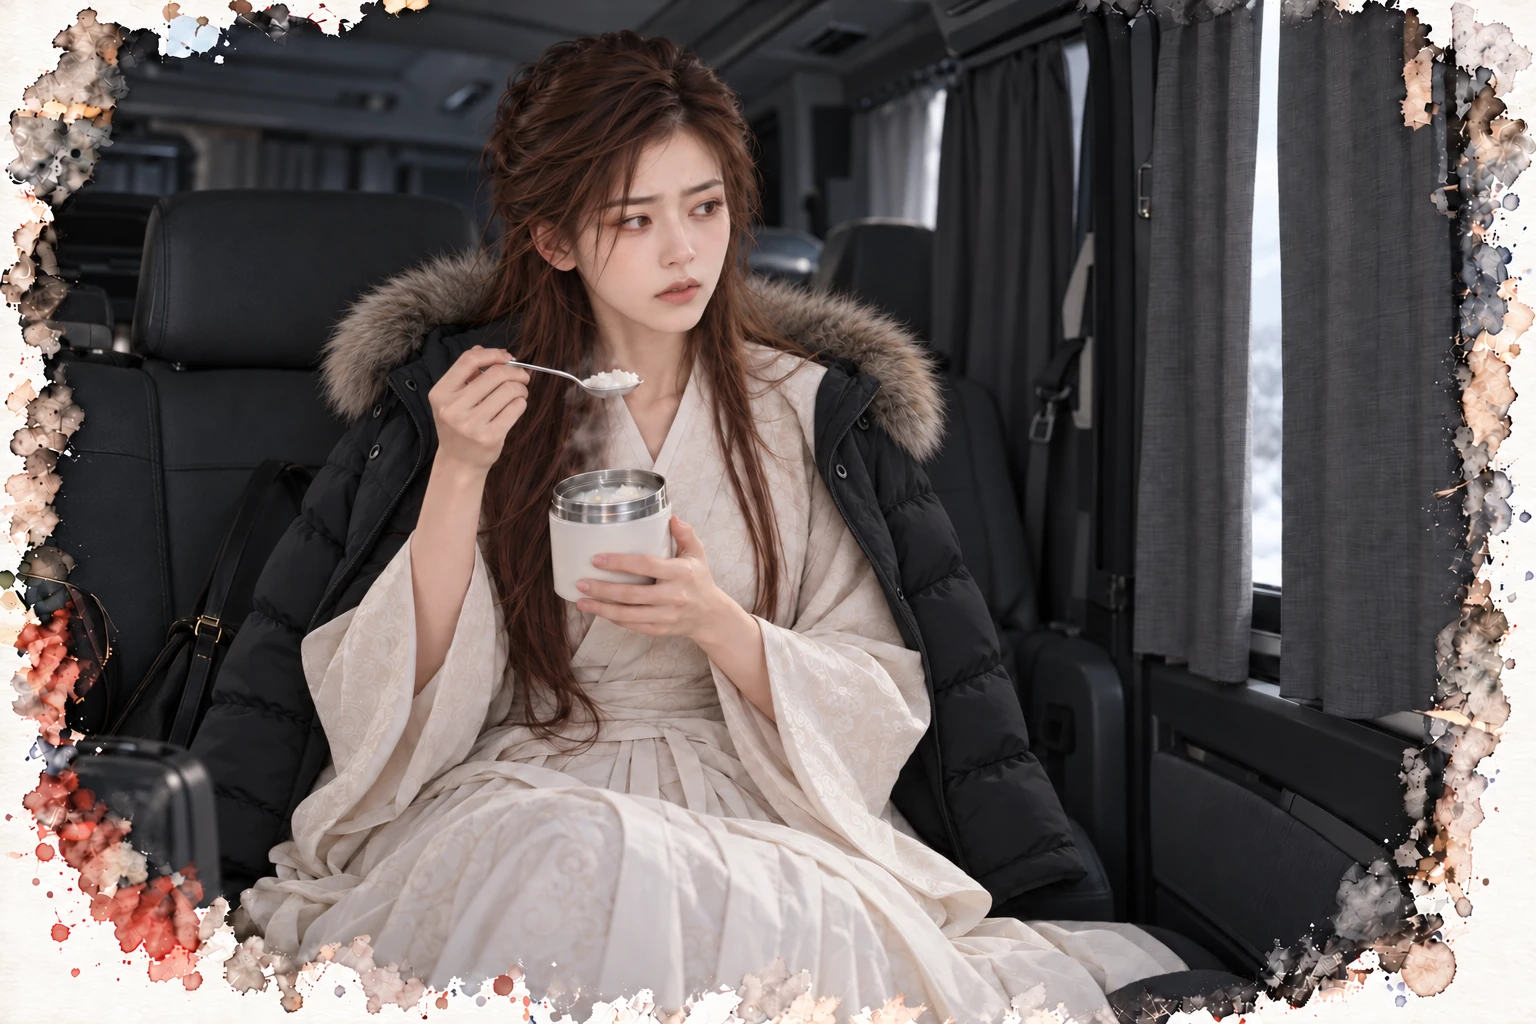
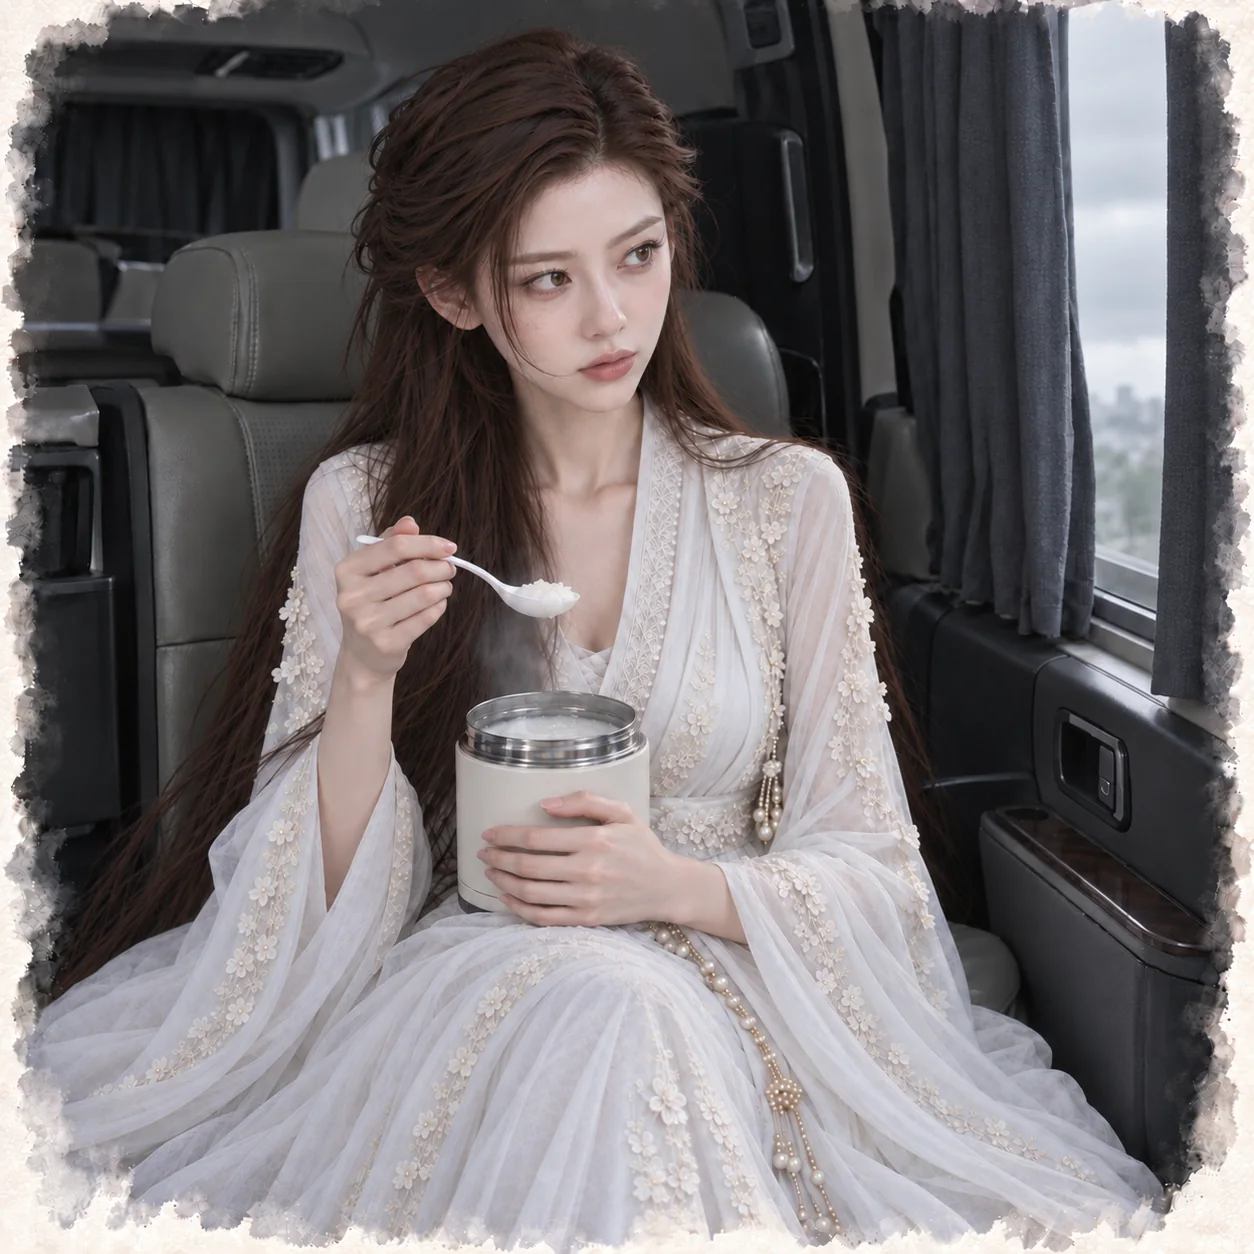
沒有招牌的酒吧 第二部第一章：替換林棠插圖
Claude-Session: https://claude.ai/code/session_01HUwf2ENyDuzceKaKYawxmj

diff --git a/novels/no-signboard-bar/part-02-chapter-01.html b/novels/no-signboard-bar/part-02-chapter-01.html
@@ -98,7 +98,7 @@
 <p>江澈站在吧檯後面，一直沒有去收那只杯子。</p>
 <p>他在忍。</p>
 </section>
-<section class="pov pov-lin" data-name="林棠"><div class="pov-opening"><h2 class="pov-title" id="pov-3"><span>敘事視角</span>林棠</h2><a class="pov-art" href="../../assets/novels/no-signboard-bar/part-02-chapter-01-lin-tang.webp" target="_blank" rel="noopener" aria-label="開啟林棠插圖大圖"><img src="../../assets/novels/no-signboard-bar/part-02-chapter-01-lin-tang.webp" alt="林棠披著黑色毛邊羽絨外套，在陰冷的保母車裡吃白粥。" width="1536" height="1024" loading="lazy" decoding="async"><span class="pov-cap">是這碗粥，在我腦子裡，終於有味道了。</span></a><div class="pov-intro"><p>那一晚之前，我出院的第三天，江澈還在住院，劇組打電話來。</p>
+<section class="pov pov-lin" data-name="林棠"><div class="pov-opening"><h2 class="pov-title" id="pov-3"><span>敘事視角</span>林棠</h2><a class="pov-art" href="../../assets/novels/no-signboard-bar/part-02-chapter-01-lin-tang.webp?v=20261014" target="_blank" rel="noopener" aria-label="開啟林棠插圖大圖"><img src="../../assets/novels/no-signboard-bar/part-02-chapter-01-lin-tang.webp?v=20261014" alt="拉上窗簾的保母車裡，林棠穿著白色戲服，捧著保溫盒偷偷吃粥，一邊盯著窗簾的縫，怕有人經過。" width="1254" height="1254" loading="lazy" decoding="async"><span class="pov-cap">是這碗粥，在我腦子裡，終於有味道了。</span></a><div class="pov-intro"><p>那一晚之前，我出院的第三天，江澈還在住院，劇組打電話來。</p>
 <p>「棠姐，導演想問，」是副導的聲音，小心翼翼的，「冷宮剩下那幾場，妳有沒有辦法回來拍？不用急，就是問問看。」</p>
 <p>我坐在家裡的沙發上，身上蓋著毯子，桌上放著營養師給的飲食表。一天六次，每次一點點。</p></div></div>
 <p>醫生說出院後要休養幾週，不能用力，不能彎腰，不要累到。</p>
